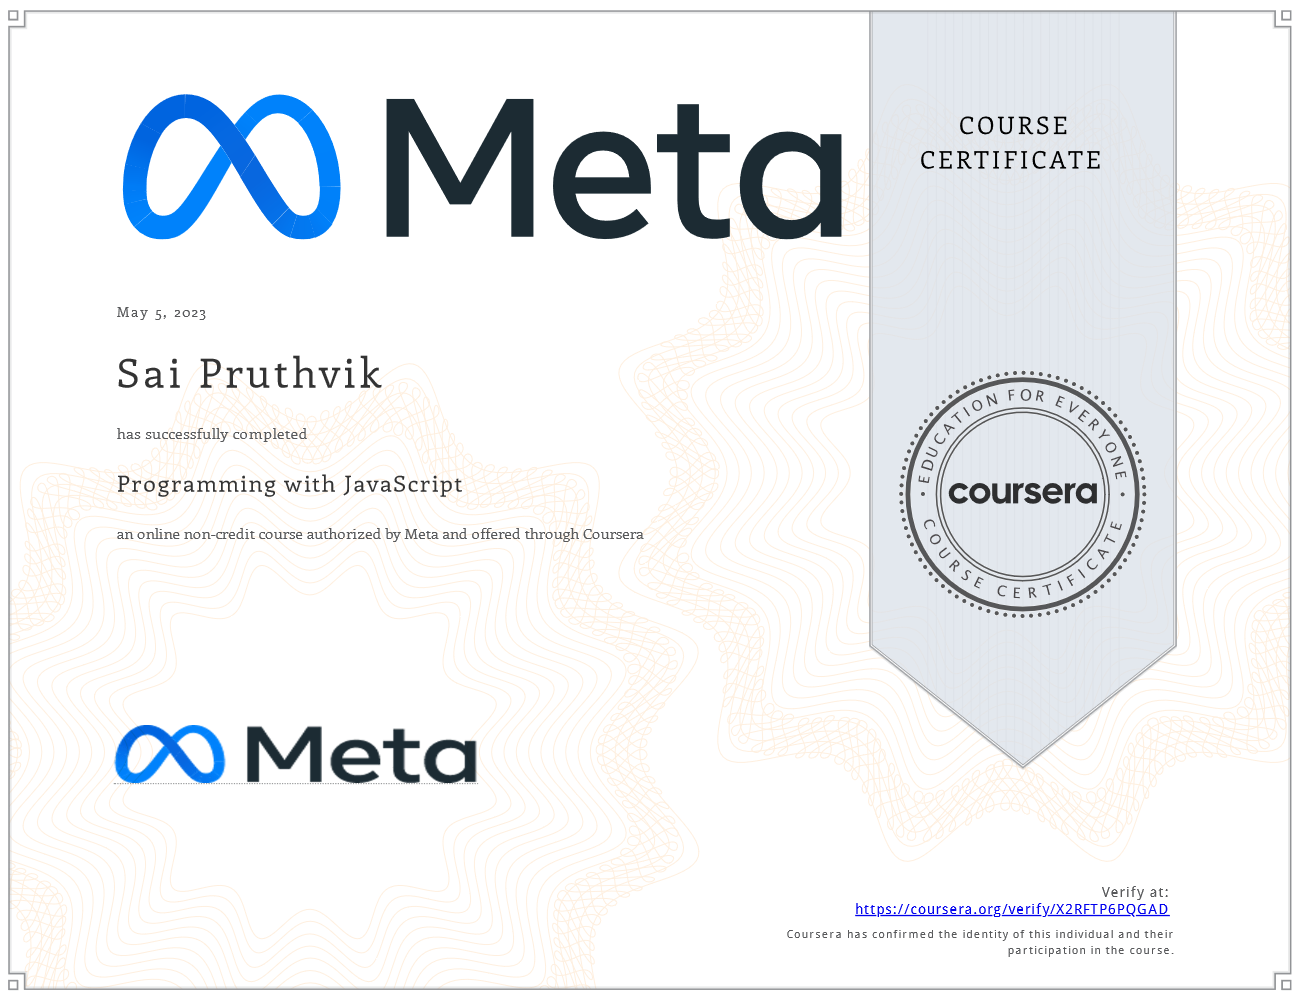
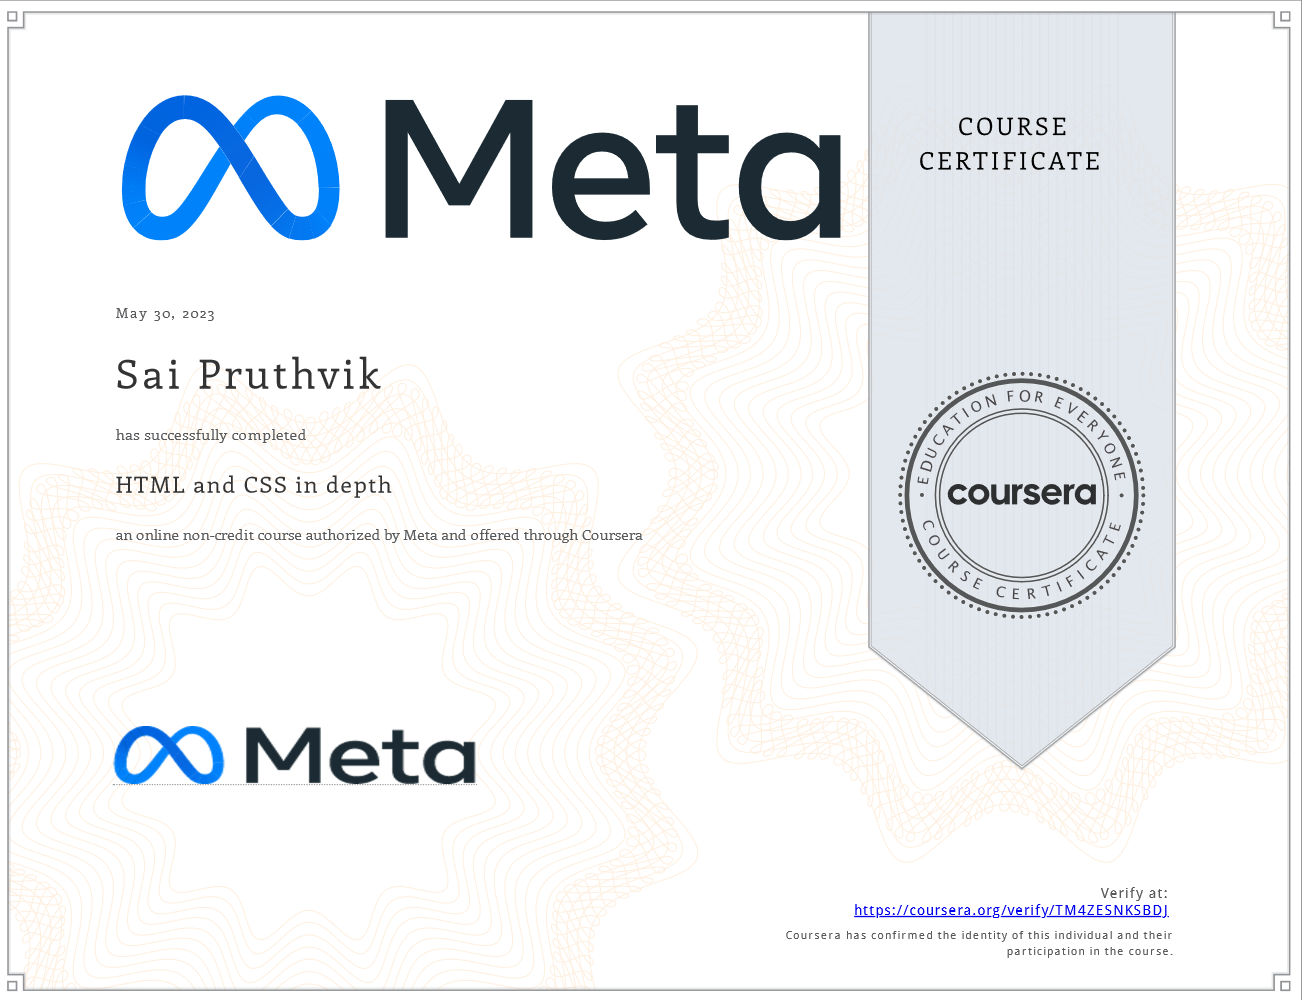
html

diff --git a/src/components/CertificationsSection.js b/src/components/CertificationsSection.js
@@ -1,28 +1,33 @@
 import React from "react";
 import FullScreenSection from "./common/FullScreenSection";
 import { Box, Heading } from "@chakra-ui/react";
-import Card from "./common/Card";
+import CardComponent from "./common/CardComponent";
 
 const projects = [
   {
-    title: "React Basics",
-    imageSrc: require("../Assets/Images/Certificates/certificate3.png"),
-    url: "https://coursera.org/share/9b5d61145d0b5953dec2596f0d79d004",
-  },
-  {
     title: "Advanced React",
-    imageSrc: require("../Assets/Images/Certificates/certificate4.png"),
+    imageSrc: require("../Assets/Images/Certificates/certificate6.png"),
     url: "https://coursera.org/share/6983f06728f38b983398d6be9623a563",
   },
   {
-    title: "Version Control",
+    title: "React Basics",
     imageSrc: require("../Assets/Images/Certificates/certificate5.png"),
+    url: "https://coursera.org/share/9b5d61145d0b5953dec2596f0d79d004",
+  },
+  {
+    title: "Version Control",
+    imageSrc: require("../Assets/Images/Certificates/certificate4.png"),
     url: "https://coursera.org/share/c2e91798bd5bcdcff7e53fbf06952901",
   },
   {
     title: "Programming With JavaScript",
-    imageSrc: require("../Assets/Images/Certificates/certificate2.png"),
+    imageSrc: require("../Assets/Images/Certificates/certificate3.png"),
     url: "https://coursera.org/share/e31a456fd18313a76ce72dc651f3d24b",
+  },
+  {
+    title: "HTML and CSS In Depth",
+    imageSrc: require("../Assets/Images/Certificates/certificate2.png"),
+    url: "https://coursera.org/share/38c16912f7f9c7e30d8d50ca3577bc58",
   },
   {
     title: "Introduction to Frontend-Development",
@@ -48,12 +53,13 @@ const CertificationsSection = () => {
         gridGap={8}
       >
         {projects.map((project) => (
-          <Card
-            key={project.title}
-            title={project.title}
-            imageSrc={project.imageSrc}
-            url={project.url}
-          />
+          <div key={project.title}>
+            <CardComponent
+              title={project.title}
+              imageSrc={project.imageSrc}
+              url={project.url}
+            />
+          </div>
         ))}
       </Box>
     </FullScreenSection>

diff --git a/src/components/common/CardComponent.js b/src/components/common/CardComponent.js
@@ -1,0 +1,24 @@
+import { Heading, HStack, Image, Text, VStack } from "@chakra-ui/react";
+import { FontAwesomeIcon } from "@fortawesome/react-fontawesome";
+import { faArrowRight } from "@fortawesome/free-solid-svg-icons";
+import React from "react";
+
+const CardComponent = ({ title, description, imageSrc, url }) => {
+  return (
+    <HStack style={{ textAlign: "center" }}>
+      <VStack>
+        <Image src={imageSrc} alt={title} />
+        <Heading>{title}</Heading>
+        <Text>{description}</Text>
+        <a target="_blank" href={url}>
+          <HStack>
+            <Text>View Details</Text>
+            <FontAwesomeIcon icon={faArrowRight} size="1x" />
+          </HStack>
+        </a>
+      </VStack>
+    </HStack>
+  );
+};
+
+export default CardComponent;

diff --git a/src/components/ProjectsSection.js b/src/components/ProjectsSection.js
@@ -1,7 +1,7 @@
 import React from "react";
 import FullScreenSection from "./common/FullScreenSection";
 import { Box, Heading } from "@chakra-ui/react";
-import Card from "./common/Card";
+import CardComponent from "./common/CardComponent";
 
 const projects = [
   {
@@ -37,7 +37,7 @@ const ProjectsSection = () => {
         gridGap={8}
       >
         {projects.map((project) => (
-          <Card
+          <CardComponent
             key={project.title}
             title={project.title}
             description={project.description}

diff --git a/src/components/Header.js b/src/components/Header.js
@@ -44,6 +44,7 @@ const Header = () => {
       transitionDuration=".3s"
       transitionTimingFunction="ease-in-out"
       backgroundColor="#18181b"
+      zIndex={9999}
     >
       <Box color="white" maxWidth="1280px" margin="0 auto">
         <HStack

diff --git a/src/components/common/ScrollToTop.js b/src/components/common/ScrollToTop.js
@@ -33,7 +33,6 @@ const ScrollToTop = () => {
             right: "2rem",
           }}
           onClick={scrollToTop}
-          color="secondary"
         >
           <FontAwesomeIcon icon={faArrowUp} />
         </Button>
